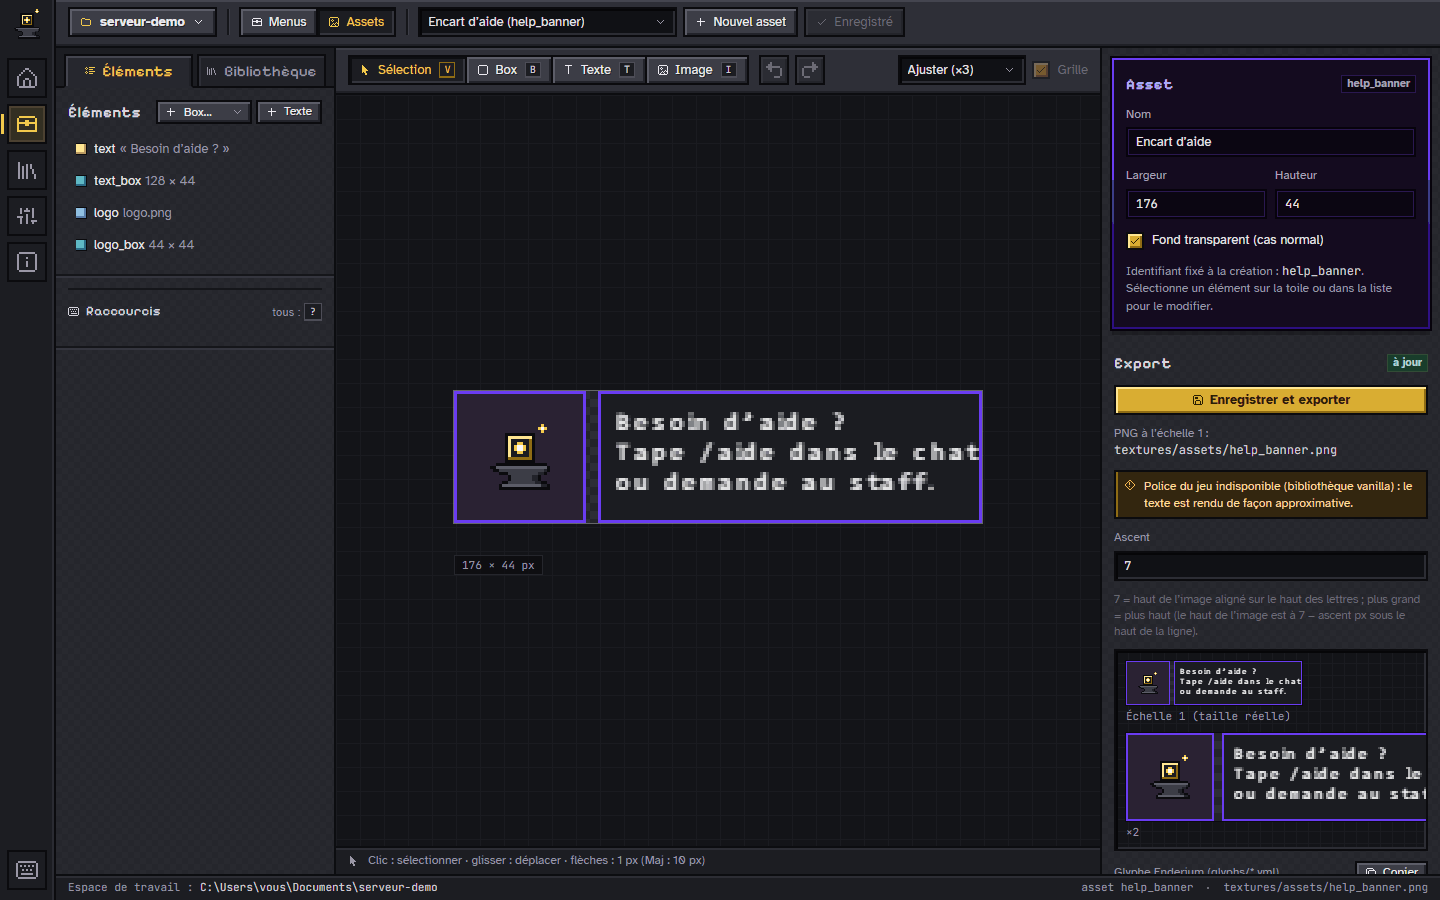
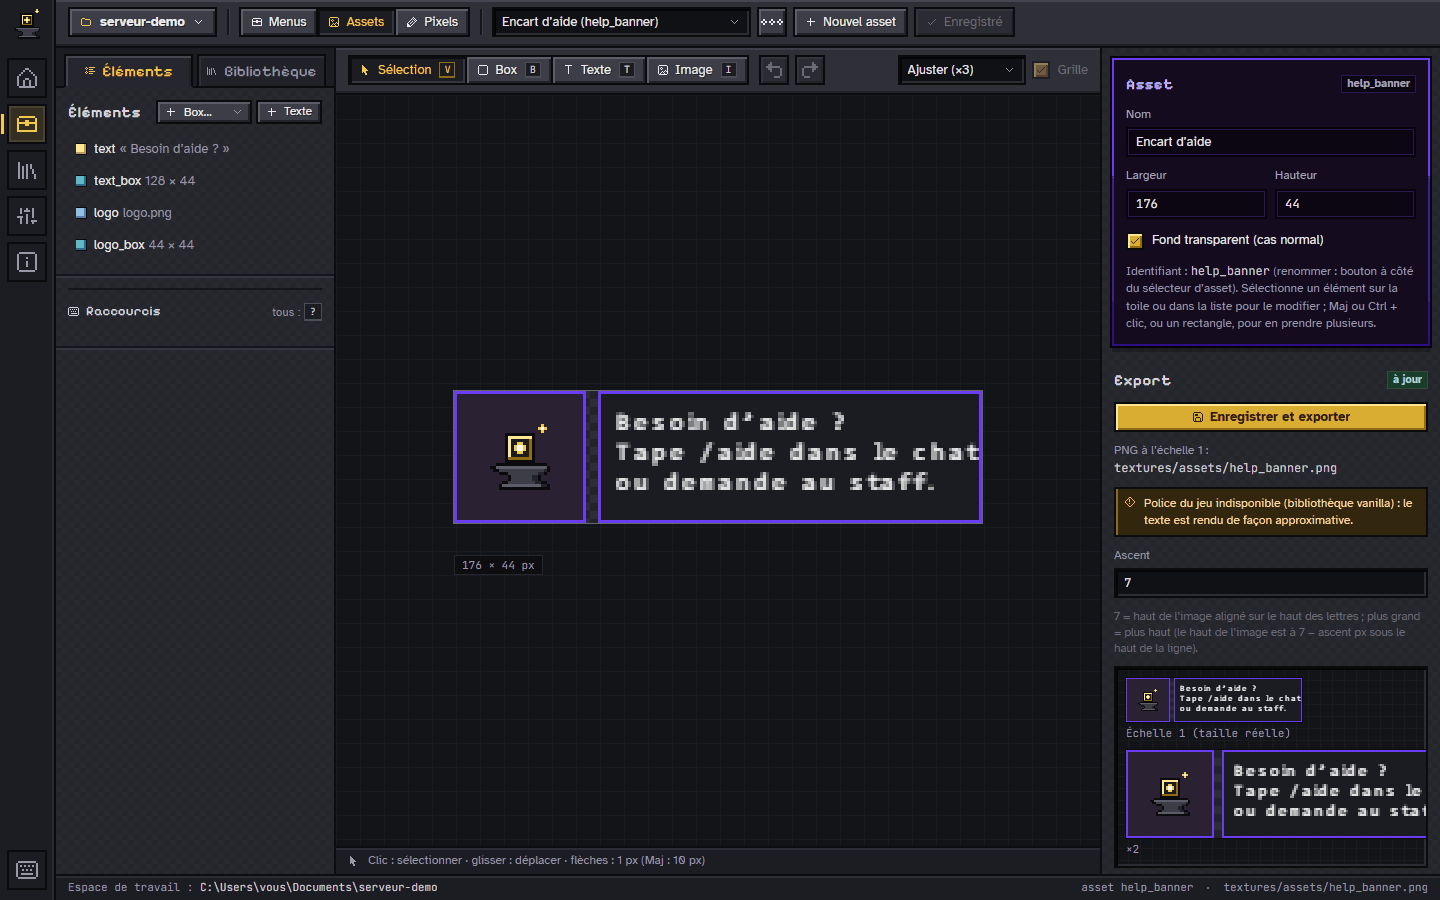
feat(site): Capturer l’éditeur de pixels, l’édition, les éditeurs visuels, l’essai, les composants et l’export
Six captures de plus, produites par le script sur l’espace de démonstration :
éditeur de pixels (onglet de boutique en calques, dessiné au crayon en
symétrie), sélection multiple et barre d’alignement, actions et conditions
d’un slot, mode « Essayer » et son journal, composant et instance, export
vers le plugin et menu des exports. Les neuf captures existantes sont
refaites sur l’interface actuelle.

L’espace de démonstration gagne un composant (« Barre de retour », inclus
par le profil), une condition d’activation sur le bouton d’achat et une
image de pixels dont les calques sont peints par le code du studio. Le
dossier d’export est un dossier temporaire masqué comme les autres chemins.

Changed region(s): [[0.75, 0.28, 1.0, 0.9956], [0.2812, 0.0, 0.7188, 0.0622]]

diff --git a/site/README.md b/site/README.md
@@ -28,11 +28,37 @@ node scripts/serve.mjs      # http://localhost:5223/
 
 Les captures sont **reproductibles** : `scripts/capture.mjs` monte un espace de
 travail de démonstration (`scripts/demo-workspace.mjs`) fait uniquement de
-textures générées par le studio et du logo du projet, avec des réglages sans
+textures générées ou dessinées par le code du studio (générateur, rendu des
+assets, encodeur de l’éditeur de pixels) et du logo du projet, avec des réglages sans
 aucune bibliothèque (`"libraries": []`). Aucun asset tiers ne peut donc
 apparaître à l’écran. Il lance le backend (`studio-api --no-discord`) et Vite
 sur des ports dédiés (5221 et 5222), pilote l’interface avec Playwright, masque
 les chemins de la machine, puis écrit les PNG dans `assets/screens/`.
+
+L’espace de démonstration contient une boutique à onglets, une modale de
+confirmation, un profil qui inclut un composant (« Barre de retour »), trois
+assets et une image de l’éditeur de pixels (« Onglet boutique », en calques).
+Son dossier « Export vers le plugin » est un sous-dossier du dossier de
+travail, affiché comme les ressources d’enderium-core : la capture `export` y
+écrit vraiment, et tout est effacé au lancement suivant.
+
+| Capture | Ce qu’elle montre |
+|---|---|
+| `home` | Accueil : actions rapides, documents récents (menus, assets, image) |
+| `menu-editor` | Éditeur de menus : la boutique, le slot « buy » sélectionné (capture du haut de page) |
+| `pixel-editor` | Éditeur de pixels : l’onglet de boutique en trois calques, symétrie et crayon en cours |
+| `multi-select` | Quatre couches sélectionnées, barre « Aligner et répartir » de l’inspecteur |
+| `visual-editors` | Slot « buy » : actions au clic, « Visible si », « Actif si » en arbre (fenêtre de 1180 px de haut) |
+| `try-mode` | Mode « Essayer » : clics simulés, pile de deux menus, journal |
+| `components` | Profil : éléments d’instance marqués « composant », « Composants inclus » |
+| `export` | Export vers le plugin fait, menu contextuel des exports (fenêtre de 1920 px de large) |
+| `modal-editor` | Modale de confirmation, bouton « Oui » sélectionné |
+| `menu-canvas` | Gros plan : la boutique telle qu’en jeu, zones masquées |
+| `title-composition` | Gros plan : la toile et les jetons du titre composé |
+| `texture-generator` | Générateur de textures, cellules de slots cochées |
+| `asset-editor` | Éditeur d’assets : l’encart d’aide et son export |
+| `shortcuts` | Aide-mémoire des raccourcis |
+| `settings` | Paramètres (export vers le plugin compris) |
 
 Prérequis : les dépendances du studio installées (`npm install` dans
 `studio/`), Rust (le backend est compilé s’il manque) et, pour réduire le poids
